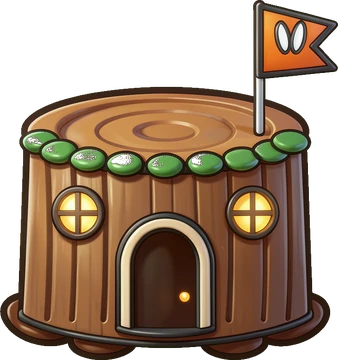
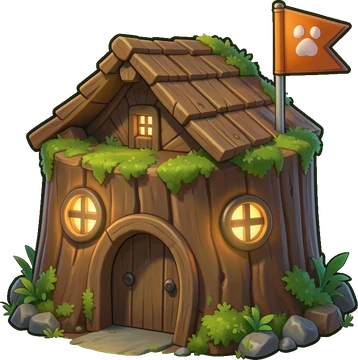
alfa 654e829: Rumble v2: base de los Animales repintada (B)

diff --git a/alfa/index.html b/alfa/index.html
@@ -12,10 +12,10 @@
 <link rel="preconnect" href="https://fonts.googleapis.com">
 <link rel="preconnect" href="https://fonts.gstatic.com" crossorigin>
 <link rel="stylesheet" href="https://fonts.googleapis.com/css2?family=Baloo+2:wght@600;700;800&family=Luckiest+Guy&display=swap">
-<link rel="stylesheet" href="core/css/base.css?v=791d3ba">
-<link rel="stylesheet" href="biblioteca/tienda.css?v=791d3ba">
-<link rel="stylesheet" href="novedades/ventana.css?v=791d3ba">
-<link rel="stylesheet" href="biblioteca/votos.css?v=791d3ba">
+<link rel="stylesheet" href="core/css/base.css?v=654e829">
+<link rel="stylesheet" href="biblioteca/tienda.css?v=654e829">
+<link rel="stylesheet" href="novedades/ventana.css?v=654e829">
+<link rel="stylesheet" href="biblioteca/votos.css?v=654e829">
 <style>
   /* la entrada de la web: una tarjeta por juego, con los colores y las letras de core */
   body { overflow: auto; touch-action: auto; align-items: flex-start; background-repeat: no-repeat; background-attachment: fixed; }
@@ -63,7 +63,7 @@
 </style>
 </head>
 <body>
-<script src="menu.js?v=791d3ba" data-base="" data-core="1" data-pagina=""></script>
+<script src="menu.js?v=654e829" data-base="" data-core="1" data-pagina=""></script>
 <div class="nov-fondo" id="novedades" hidden>
   <div class="nov-caja" role="dialog" aria-modal="true" aria-labelledby="nov-titulo">
     <div class="nov-cabeza"><h2 class="ol" id="nov-titulo">NOVEDADES</h2><p id="nov-sub"></p></div>
@@ -372,8 +372,8 @@
   </section>
   <p class="note" id="pie-fansof">Fans Of™ · © 2026 Arkioner y Pepins · MicroBlizz · Todos los derechos reservados</p>
 </main>
-<script src="core/js/nucleo.js?v=0-a1065.791d3ba"></script>
-<script src="core/js/novedades.js?v=791d3ba"></script>
+<script src="core/js/nucleo.js?v=0-a1066.654e829"></script>
+<script src="core/js/novedades.js?v=654e829"></script>
 <script>
 // La cuenta de la web es la misma de los juegos (core/js/sistema/cuenta.js, mismo navegador = misma sesión). Aquí no hay partida que subir.
 const AJUSTES = { id: 'web', guardado: 'fansof-web' }, SAVE_KEY = AJUSTES.guardado, SAVE = {};
@@ -382,7 +382,7 @@ const HOOKS = {};
 function hook(name, fn) { (HOOKS[name] = HOOKS[name] || []).push(fn); }
 function fire(name, ...a) { let out = ''; for (const fn of HOOKS[name] || []) { const r = fn(...a); if (typeof r === 'string') out += r; } return out; }
 </script>
-<script src="core/js/sistema/cuenta.js?v=791d3ba"></script>
+<script src="core/js/sistema/cuenta.js?v=654e829"></script>
 <script>NUCLEO.idiomaSolo({ en: ['core/idioma/en-raiz.js', 'novedades/en.js', 'biblioteca/en.js','games/rumble/idioma/en-7.js', 'games/td/idioma/en-2.js', 'games/survivors/idioma/en.js', 'games/crush/idioma/en-raiz.js', 'games/jump/idioma/en-raiz.js', 'games/taxi/idioma/en-raiz.js', 'games/dark/idioma/en-raiz.js', 'games/nova/idioma/en-raiz.js', 'games/nova/idioma/en-raiz-2.js', 'demos/beams/idioma/en-raiz.js', 'demos/snakes/idioma/en-raiz.js', 'demos/merge/idioma/en-raiz.js', 'demos/swipe/idioma/en-raiz.js', 'demos/pop/idioma/en-raiz.js', 'demos/vikings/idioma/en-raiz.js', 'demos/goose/idioma/en-raiz.js', 'demos/asalto/idioma/en-raiz.js', 'demos/auto/idioma/en-raiz.js', 'demos/shelter/idioma/en-raiz.js', 'demos/soccer/idioma/en-raiz.js', 'demos/air/idioma/en-raiz.js', 'demos/basement/idioma/en-raiz.js', 'demos/zombies/idioma/en-raiz.js', 'games/island/idioma/en-raiz.js', 'demos/rumble-3d/idioma/en-raiz.js', 'demos/roguelite/idioma/en-raiz.js', 'demos/tactics-advance/idioma/en-raiz.js', 'games/rouflage/idioma/en-raiz.js', 'demos/dungeons/idioma/en-raiz.js', 'games/karts/idioma/en-raiz.js', 'demos/recruit/idioma/en-raiz.js', 'demos/terminal-shock/idioma/en-raiz.js', 'games/ratkov/idioma/en-raiz.js'] })</script>
 <script>
 // La versión y las novedades salen de los archivos de cada juego, así que esta página nunca se queda atrás.
@@ -408,14 +408,14 @@ const fail = id => () => {
 };
 
 </script>
-<script src="core/js/proximamente.js?v=791d3ba"></script>
-<script src="novedades/ventana.js?v=791d3ba"></script>
-<script src="biblioteca/tienda.js?v=791d3ba"></script>
-<script src="core/js/sistema/beta.js?v=791d3ba"></script>
-<script src="biblioteca/cuenta-web.js?v=791d3ba"></script>
-<script src="biblioteca/votos.js?v=791d3ba"></script>
-<script src="biblioteca/alfa.js?v=791d3ba"></script>
-<script src="core/js/sistema/analitica.js?v=791d3ba"></script>
-<script src="pie.js?v=791d3ba" defer></script>
+<script src="core/js/proximamente.js?v=654e829"></script>
+<script src="novedades/ventana.js?v=654e829"></script>
+<script src="biblioteca/tienda.js?v=654e829"></script>
+<script src="core/js/sistema/beta.js?v=654e829"></script>
+<script src="biblioteca/cuenta-web.js?v=654e829"></script>
+<script src="biblioteca/votos.js?v=654e829"></script>
+<script src="biblioteca/alfa.js?v=654e829"></script>
+<script src="core/js/sistema/analitica.js?v=654e829"></script>
+<script src="pie.js?v=654e829" defer></script>
 </body>
 </html>

diff --git a/alfa/games/rouflage/index.html b/alfa/games/rouflage/index.html
@@ -10,7 +10,7 @@
 <link rel="preconnect" href="https://fonts.googleapis.com">
 <link rel="preconnect" href="https://fonts.gstatic.com" crossorigin>
 <link rel="stylesheet" href="https://fonts.googleapis.com/css2?family=Baloo+2:wght@600;700;800&family=Luckiest+Guy&display=swap">
-<script src="../../core/js/nucleo.js?v=0.2.74-a1065.791d3ba"></script>
+<script src="../../core/js/nucleo.js?v=0.2.74-a1066.654e829"></script>
 <script>NUCLEO.estilos('../../core/css/base.css', '../../core/css/menus.css', '../../core/css/menus-extra.css')</script>
 <script>NUCLEO.estilos('estilo.css', 'estilo-taller.css', 'estilo-pantallas.css', 'estilo-pvp.css', 'estilo-armario.css', 'estilo-menus.css', 'estilo-misiones.css', 'estilo-escenario.css', 'estilo-votos.css', 'estilo-gacha.css', 'estilo-compra.css', 'estilo-fin.css', 'estilo-talentos.css', 'estilo-chat.css', 'estilo-titulo.css', 'estilo-tienda.css', 'estilo-barras.css', 'estilo-tarjetas.css', 'estilo-barra.css', 'estilo-sala-viva.css', 'estilo-obra.css', 'estilo-ayuda.css', 'estilo-pintura.css', 'estilo-carga.css')</script>      <!-- la intro, la última: pisa el #carga de estilo.css (antes iba en línea dentro de #carga) -->
 </head>

diff --git a/alfa/demos/rumble-v2/index.html b/alfa/demos/rumble-v2/index.html
@@ -18,7 +18,7 @@
 <!-- core/js/nucleo.js carga lo común y el juego. LA VERSIÓN SE ESCRIBE SOLO AQUÍ, en su ?v= -->
 <!-- GENERADO por herramientas/rumble_v2.py desde games/rumble/index.html: no editar a mano -->
 <script>try { const u = new URL(location.href); if (u.searchParams.get('nube') !== '0') { u.searchParams.set('nube', '0'); history.replaceState(null, '', u); } } catch (e) { /* sin dirección */ }</script>
-<script src="../../core/js/nucleo.js?v=0.9.166-a1065.791d3ba"></script>
+<script src="../../core/js/nucleo.js?v=0.9.166-a1066.654e829"></script>
 <script>NUCLEO.estilos('../../core/css/menus.css', '../../games/rumble/css/estilos-partida.css', '../../games/rumble/css/estilos-extra.css', '../../games/rumble/css/arena.css', '../../core/css/biblioteca.css', '../../games/rumble/css/facciones-y-jefes.css', '../../core/css/clasificacion.css', '../../games/rumble/css/frases.css', '../../games/rumble/css/mitica.css', '../../games/rumble/css/paletas.css')</script>
 
 </head>

diff --git a/alfa/games/karts/index.html b/alfa/games/karts/index.html
@@ -8,7 +8,7 @@
 <meta name="description" content="Fans of Karts (juego): carreras de karts en pixel art de consola portátil con los líderes de Fans of Rumble. Tres pistas, seis pilotos, objetos con mala idea y Microblizz, que ha comprado la carrera.">
 <link rel="icon" type="image/png" href="img/favicon.png">
 <link rel="apple-touch-icon" href="img/icon-192.png">
-<script src="../../core/js/nucleo.js?v=0.7.24-a1065.791d3ba"></script>
+<script src="../../core/js/nucleo.js?v=0.7.24-a1066.654e829"></script>
 <script>NUCLEO.estilos('../../core/css/base.css', '../../core/css/menus.css', '../../core/css/menus-tienda.css', '../../core/css/menus-extra.css', 'css/tienda.css', 'css/pvp.css')</script>
 <link rel="stylesheet" href="https://fonts.googleapis.com/css2?family=Baloo+2:wght@600;700;800&family=Luckiest+Guy&display=swap">
 <style>

diff --git a/alfa/games/dark/index.html b/alfa/games/dark/index.html
@@ -12,7 +12,7 @@
 <link rel="stylesheet" href="https://fonts.googleapis.com/css2?family=Baloo+2:wght@600;700;800&family=Luckiest+Guy&family=Press+Start+2P&family=Pixelify+Sans:wght@400;600;700&display=swap">
 <link rel="stylesheet" href="css/dark.css?v=0.2.4">
 <!-- Prototipo: no usa NUCLEO (tiene su propia partida guardada). Carga de core el arte, la música, los efectos y las cifras del Rumble.
-     VERSIÓN para desplegar.py (que la busca así): nucleo.js?v=0.2.7-a1065.791d3ba' (aquí solo se anota; súbela junto al ?v= de los scripts). -->
+     VERSIÓN para desplegar.py (que la busca así): nucleo.js?v=0.2.7-a1066.654e829' (aquí solo se anota; súbela junto al ?v= de los scripts). -->
 </head>
 <body>
 <canvas id="cv" aria-label="Mazmorra"></canvas>

diff --git a/alfa/games/rumble/index.html b/alfa/games/rumble/index.html
@@ -16,7 +16,7 @@
 <link rel="preconnect" href="https://fonts.gstatic.com" crossorigin>
 <link rel="stylesheet" href="https://fonts.googleapis.com/css2?family=Baloo+2:wght@600;700;800&family=Luckiest+Guy&display=swap">
 <!-- core/js/nucleo.js carga lo común y el juego. LA VERSIÓN SE ESCRIBE SOLO AQUÍ, en su ?v= -->
-<script src="../../core/js/nucleo.js?v=0.9.167-a1065.791d3ba"></script>
+<script src="../../core/js/nucleo.js?v=0.9.167-a1066.654e829"></script>
 <script>NUCLEO.estilos('../../core/css/menus.css', 'css/estilos-partida.css', 'css/estilos-extra.css', 'css/arena.css', '../../core/css/biblioteca.css', 'css/facciones-y-jefes.css', '../../core/css/clasificacion.css', 'css/frases.css', 'css/mitica.css', 'css/paletas.css')</script>
 
 </head>

diff --git a/alfa/games/jump/index.html b/alfa/games/jump/index.html
@@ -12,7 +12,7 @@
 <link rel="preconnect" href="https://fonts.gstatic.com" crossorigin>
 <link rel="stylesheet" href="https://fonts.googleapis.com/css2?family=Baloo+2:wght@600;700;800&family=Luckiest+Guy&display=swap">
 <!-- ?v= es la versión del juego (la misma en la web y en la app): súbela al publicar y pon su entrada en js/novedades.js -->
-<script src="../../core/js/nucleo.js?v=0.3.25-a1065.791d3ba"></script>
+<script src="../../core/js/nucleo.js?v=0.3.25-a1066.654e829"></script>
 <script>NUCLEO.estilos('../../core/css/base.css', '../../core/css/menus.css')</script>
 <style>
 /* Fans of Jump: un solo canvas a la resolución real de la pantalla, con los dibujos 3D. El mundo mide unos 200 de ancho y se

diff --git a/alfa/games/decks/index.html b/alfa/games/decks/index.html
@@ -15,7 +15,7 @@
 <link rel="preconnect" href="https://fonts.gstatic.com" crossorigin>
 <link rel="stylesheet" href="https://fonts.googleapis.com/css2?family=Baloo+2:wght@600;700;800&family=Luckiest+Guy&display=swap">
 <!-- core/js/nucleo.js carga lo común y el juego. LA VERSIÓN SE ESCRIBE SOLO AQUÍ, en su ?v= -->
-<script src="../../core/js/nucleo.js?v=0.2.30-a1065.791d3ba"></script>
+<script src="../../core/js/nucleo.js?v=0.2.30-a1066.654e829"></script>
 <script>NUCLEO.estilos('../../core/css/base.css', '../../core/css/menus.css', 'css/decks.css', 'css/decks-reunion.css', 'css/decks-anim.css', 'css/decks-campana.css', 'css/decks-lideres.css')</script>
 </head>
 <body>

diff --git a/alfa/demos/zombies/index.html b/alfa/demos/zombies/index.html
@@ -11,7 +11,7 @@
 <link rel="stylesheet" href="https://fonts.googleapis.com/css2?family=VT323&family=Russo+One&family=Permanent+Marker&family=Special+Elite&display=swap">
 <script src="https://cdnjs.cloudflare.com/ajax/libs/three.js/r128/three.min.js"></script>
 <!-- ?v= es la versión de la demo: súbela al publicar -->
-<script src="../../core/js/nucleo.js?v=0.12.0-a1065.791d3ba"></script>
+<script src="../../core/js/nucleo.js?v=0.12.0-a1066.654e829"></script>
 <script>NUCLEO.estilos('../../core/css/base.css', '../../core/css/menus.css')</script>
 <link rel="stylesheet" href="estilo.css?v=0.12.0">
 <link rel="stylesheet" href="estilo-menus.css?v=0.12.0">

diff --git a/alfa/games/ratkov/index.html b/alfa/games/ratkov/index.html
@@ -13,7 +13,7 @@
 <link rel="preconnect" href="https://fonts.gstatic.com" crossorigin>
 <link rel="stylesheet" href="https://fonts.googleapis.com/css2?family=VT323&family=Russo+One&display=swap">
 <script src="https://cdnjs.cloudflare.com/ajax/libs/three.js/r128/three.min.js"></script>
-<script src="../../core/js/nucleo.js?v=0.2.38-a1065.791d3ba"></script>
+<script src="../../core/js/nucleo.js?v=0.2.38-a1066.654e829"></script>
 <script>NUCLEO.estilos('../../core/css/base.css', '../../core/css/menus.css')</script>
 <link rel="stylesheet" href="estilo.css?v=0.2.3">
 <link rel="stylesheet" href="estilo-refugio.css?v=0.2.3">

diff --git a/alfa/games/survivors/index.html b/alfa/games/survivors/index.html
@@ -15,7 +15,7 @@
 <link rel="preconnect" href="https://fonts.gstatic.com" crossorigin>
 <link rel="stylesheet" href="https://fonts.googleapis.com/css2?family=Baloo+2:wght@600;700;800&family=Luckiest+Guy&display=swap">
 <!-- core/js/nucleo.js carga lo común y el juego. LA VERSIÓN SE ESCRIBE SOLO AQUÍ, en su ?v= -->
-<script src="../../core/js/nucleo.js?v=0.1.80-a1065.791d3ba"></script>
+<script src="../../core/js/nucleo.js?v=0.1.80-a1066.654e829"></script>
 <script>NUCLEO.estilos('../../core/css/base.css', '../../core/css/menus.css', 'css/survivors.css', '../../core/css/biblioteca.css')</script>
 </head>
 <body>

diff --git a/alfa/games/td/index.html b/alfa/games/td/index.html
@@ -15,7 +15,7 @@
 <link rel="preconnect" href="https://fonts.gstatic.com" crossorigin>
 <link rel="stylesheet" href="https://fonts.googleapis.com/css2?family=Baloo+2:wght@600;700;800&family=Luckiest+Guy&display=swap">
 <!-- core/js/nucleo.js carga lo común y el juego. LA VERSIÓN SE ESCRIBE SOLO AQUÍ, en su ?v= -->
-<script src="../../core/js/nucleo.js?v=0.13.96-a1065.791d3ba"></script>
+<script src="../../core/js/nucleo.js?v=0.13.96-a1066.654e829"></script>
 <script>NUCLEO.estilos('../../core/css/base.css', 'css/td.css', '../../core/css/menus.css', '../../core/css/biblioteca.css')</script>
 </head>
 <body>
